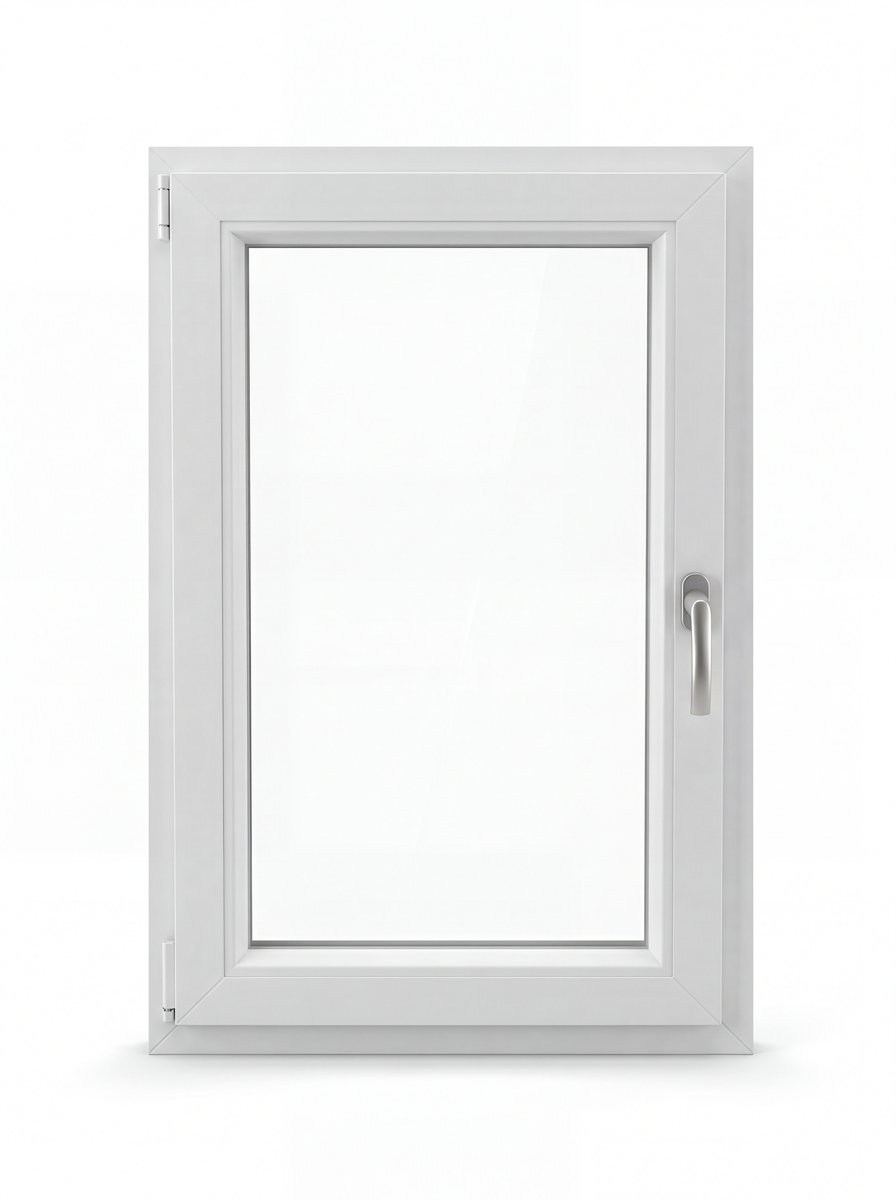
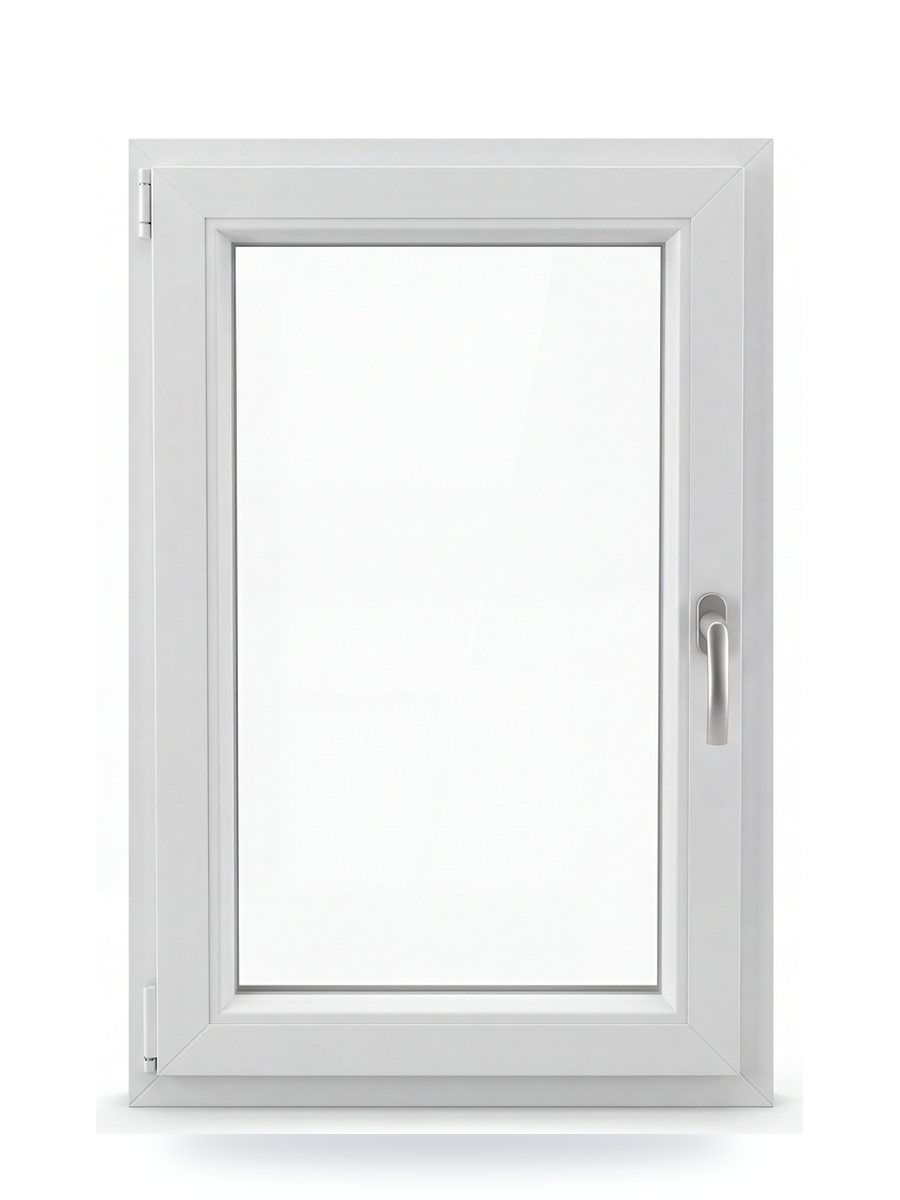
Konfigurator: Produkt-Auswahlbilder als einheitliches Set (gleiche Leinwand, gemeinsame Standlinie, Bodenschatten) — kein Groessen-/Format-Mismatch mehr

Changed region(s): [[0.125, 0.0925, 0.875, 0.9867]]

diff --git a/konfigurator.html b/konfigurator.html
@@ -1840,10 +1840,10 @@ function openCart(){ anfrageView='cart'; if(!cart.length){ if(!started){ backToP
 // Zwischen Übersicht und Checkout-Formular wechseln
 function showCart(){ anfrageView='cart'; window.scrollTo({top:0}); render(); }
 const PRODUCTS=[
-  {id:'fenster',t:'Kunststofffenster',img:'img/karten/fenster-weiss.webp',from:'ab 79 €'},
-  {id:'balkon',t:'Balkontür',img:'img/karten/balkontuer-weiss.webp',from:'ab 274 €'},
-  {id:'haustuer',t:'Haustür',img:'img/karten/haustuer-weiss.webp',from:'ab 872 €'},
-  {id:'schiebe',t:'Schiebetür',img:'img/karten/hst-weiss.webp',from:'ab 1.411 €'},
+  {id:'fenster',t:'Kunststofffenster',img:'img/karten/fenster-weiss.webp?v=norm1',from:'ab 79 €'},
+  {id:'balkon',t:'Balkontür',img:'img/karten/balkontuer-weiss.webp?v=norm1',from:'ab 274 €'},
+  {id:'haustuer',t:'Haustür',img:'img/karten/haustuer-weiss.webp?v=norm1',from:'ab 872 €'},
+  {id:'schiebe',t:'Schiebetür',img:'img/karten/hst-weiss.webp?v=norm1',from:'ab 1.411 €'},
 ];
 function renderPicker(){
   const cards=PRODUCTS.map(p=>`<div class="pcard" onclick="startProduct('${p.id}')">
